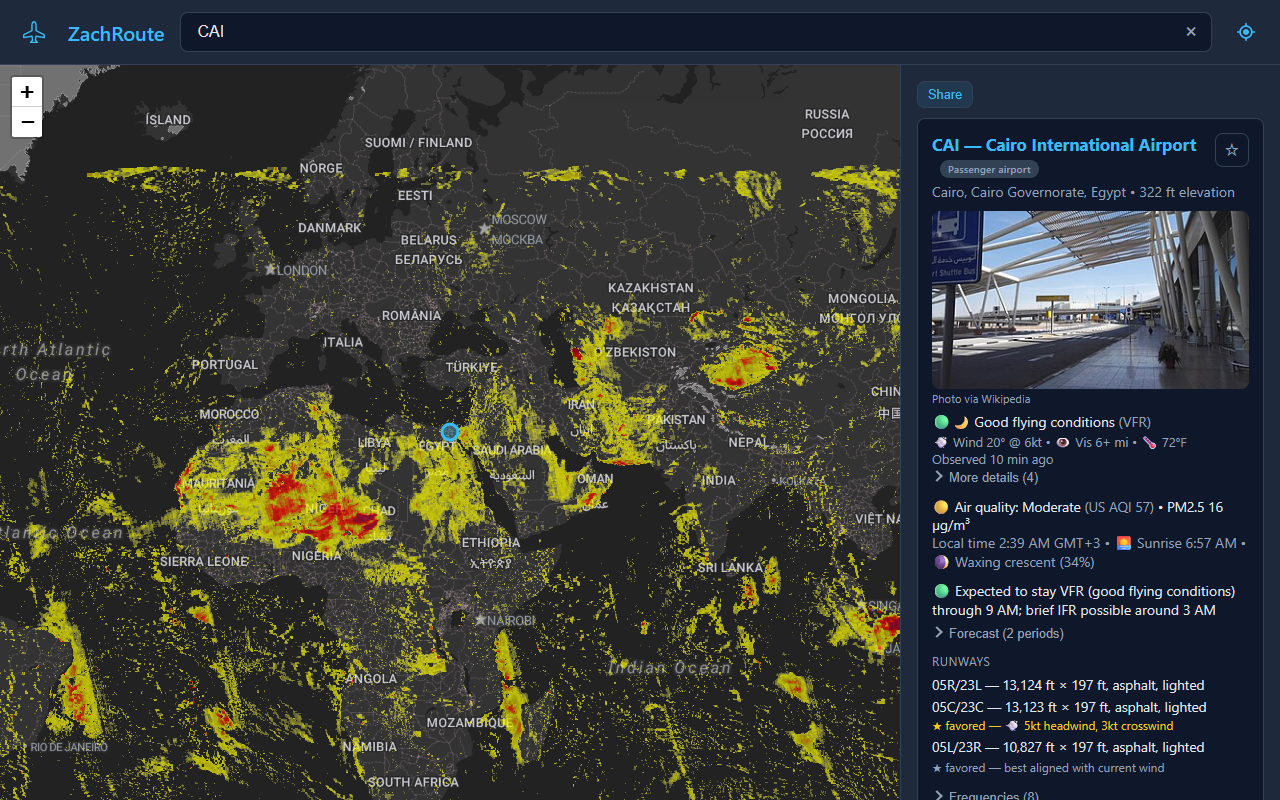
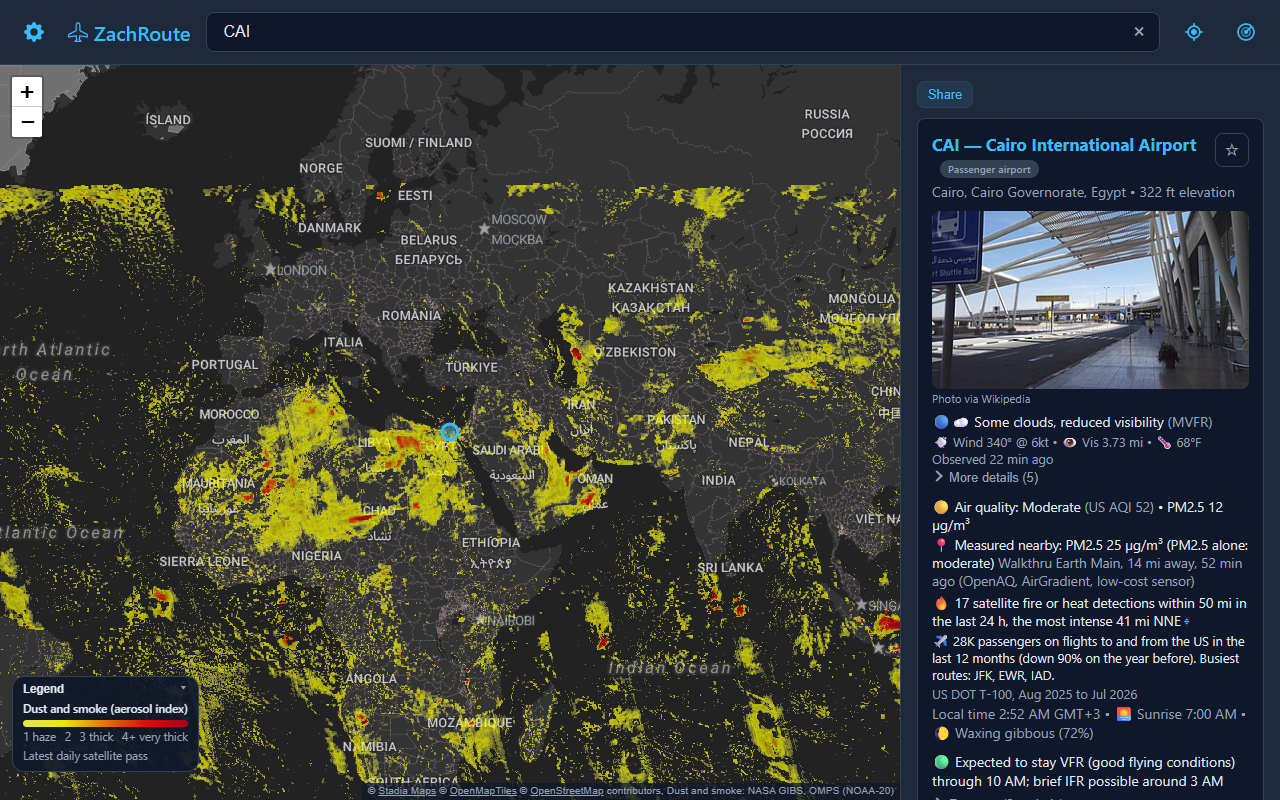
docs: README screenshots for Live track, settings and base maps (#109)
## What

New README screenshots and text for the features since 2.19 (the old
images still showed the airplane menu).

- **Screenshots**, all from the live site (2.23.2) with fresh browser
profiles:
- `screenshot-route.png`: Guam to Taipei through Typhoon Champi's
forecast cone, with the hazard list (cyclone, tropical cyclone SIGMET, a
TFR; worst grade Extreme)
- `screenshot-live.png` (new): Live track near O'Hare, with flights
named by airline and number, their routes, and route lines
- `screenshot-overview.png` (new): Route overview of Envoy Air 4012,
Chicago to Detroit
- `screenshot-settings.png` (new): the settings window with Weather and
radar options
- `screenshot-satellite.png` (new): SFO on the satellite base map with
runway outlines
  - `screenshot-mobile.png`: Live track on a phone
- `screenshot-dust.png`: the dust and smoke layer, retaken with the
current header
  - `screenshot-airport.png` removed (Palembang, old UI)
- **`scripts/capture-screenshots.mjs`:** shots can now run steps (open
Settings, start Live track, open an overview) and set a location. Live
track uses a fixed public position beside O'Hare, never the machine's
own. `ROUTE=` picks the main route and `SHOT=` takes one shot.
- **README:**
  - a new image layout
  - Live track in "Why" (it answers the FlightWall question directly)
- Live track limits: volunteer receiver coverage, missing or stale
routes, the daily allowance resetting at midnight UTC
  - the later test fixtures
[…]

diff --git a/README.md b/README.md
@@ -7,13 +7,19 @@
 
 Live at **[zachroute.pages.dev](https://zachroute.pages.dev)**. For information only: not for navigation or flight planning.
 
-![Guam to Tokyo Narita: the route passes through Typhoon Champi's forecast cone, drawn with its past and forecast track, and the tropical cyclone SIGMETs it crosses are listed](docs/screenshot-route.png)
+![Guam to Taipei: the route passes through Typhoon Champi's forecast cone, drawn with its past and forecast track, and the route card lists the cyclone, the tropical cyclone SIGMET and a flight restriction, worst grade Extreme](docs/screenshot-route.png)
 
-| Airport view: Palembang, Indonesia, with smoke from nearby fires | On a phone: Jakarta to Bali crosses volcanic ash |
+| Live track: aircraft in the air around you, with their routes | Route overview: the whole flight, how far it has come and how far is left |
 |---|---|
-| ![Palembang airport card: very poor visibility, unhealthy air quality with a haze note, and satellite fire detections around the airport on the map](docs/screenshot-airport.png) | ![Phone layout of the Jakarta to Bali route with the volcanic ash warning for Mt Semeru](docs/screenshot-mobile.png) |
+| ![Live track near O'Hare: a 10-mile circle with aircraft colored by altitude, lines on to their destinations, and a card listing each flight by airline and number with its route, altitude, speed and climb](docs/screenshot-live.png) | ![Route overview of a flight departing O'Hare: origin and destination, the part flown and the part to go, with distances, a rough time to go and a button for the weather along the route](docs/screenshot-overview.png) |
 
-![The dust and smoke layer over Africa and Asia, with a Saharan dust plume over West Africa](docs/screenshot-dust.png)
+| Settings: layers in folding sections with on/off switches | Satellite base map: San Francisco with its runways |
+|---|---|
+| ![The settings window open over San Francisco, with the Weather section showing radar on and its precipitation or storm tops choice](docs/screenshot-settings.png) | ![SFO on the satellite base map, with its runway outlines and the airport card](docs/screenshot-satellite.png) |
+
+| On a phone: Live track | The dust and smoke layer over Africa and Asia |
+|---|---|
+| ![Live track on a phone near O'Hare, with the aircraft card in the bottom sheet](docs/screenshot-mobile.png) | ![The dust and smoke layer over Africa and Asia, with Saharan dust over North Africa](docs/screenshot-dust.png) |
 
 ## Why
 
@@ -21,7 +27,9 @@ Aviation data is free and public, but it is scattered across a dozen sites and w
 shorthand (`TAF KORD 161120Z 1612/1718 28012KT P6SM BKN035`). I wanted one fast page that answers
 "what is happening at this airport and on this route right now" in plain English, keeps working
 for airport lookups when the signal drops, and installs on a phone like an app. It started as a
-companion to a FlightWall display: see a plane overhead, look up where it is going.
+companion to a FlightWall display: see a plane overhead, look up where it is going. Live track now
+answers that directly: tap the radar button and the aircraft around you are listed with their
+airline, type and route.
 
 ## Features
 
@@ -314,6 +322,12 @@ for the design and the reasoning behind the main decisions.
 - Radar outside the US covers only countries that share their radar with RainViewer, at zoom 7
   detail at most; some networks (Mexico's, for one) report in coarse steps, so strong cells can
   show as solid blocks of one level.
+- Live track depends on adsb.lol's volunteer receivers: coverage is good around busy airports and
+  thin over oceans and remote areas, and aircraft that do not broadcast their position are not
+  shown. Flight routes come from community data that is often missing (private and cargo flights)
+  or out of date (regional airlines reuse flight numbers), so the app shows "Route unknown" rather
+  than a route that does not match where the aircraft is. The adsb.lol key has a daily allowance;
+  when it is used up, Live track says when it can be used again (the window resets at midnight UTC).
 - The map UI has no automated browser tests; it is checked by hand and through the screenshots.
 
 ## Testing
@@ -334,13 +348,20 @@ found real bugs: the FAA parser's `<Delay` pattern also matched `<Delay_type>`, 
 arrival/departure delays were never parsed; the international SIGMET feed lists some SIGMETs
 twice; and NASA FIRMS' "24h" file actually spans about two days.
 
+Later features use real responses captured when they were built (listed in
+`test/fixtures/README.md`): adsb.lol aircraft around O'Hare from the re-api and `/v2/point`, its route
+files and route API, the daily-limit 429 it sends, NWS alert areas and forecast zones, BTS T-100 rows
+and OpenFlights airlines.
+
 Not verified against real data: the FAA ground-stop XML block (no ground stop was active when the
 fixtures were captured; the parser follows the published `AirportStatus.dtd` element names). Stadia
 domain authentication was checked by HTTP status (200 from the registered domain, 401 otherwise).
 
-The README screenshots come from the running app: `node scripts/capture-screenshots.mjs` drives a
-local Chrome or Edge in headless mode against `npx wrangler pages dev dist` and writes
-`docs/screenshot-*.png`.
+The README screenshots come from the running app: `node scripts/capture-screenshots.mjs [baseUrl]`
+drives a local Chrome or Edge in headless mode (against `npx wrangler pages dev dist` by default)
+and writes `docs/screenshot-*.png`, each from a fresh browser profile. Shots that need a location
+(Live track) use a fixed public position beside O'Hare, never the machine's own. `SHOT=live` takes
+one shot.
 
 ## Data sources, freshness and licenses
 
